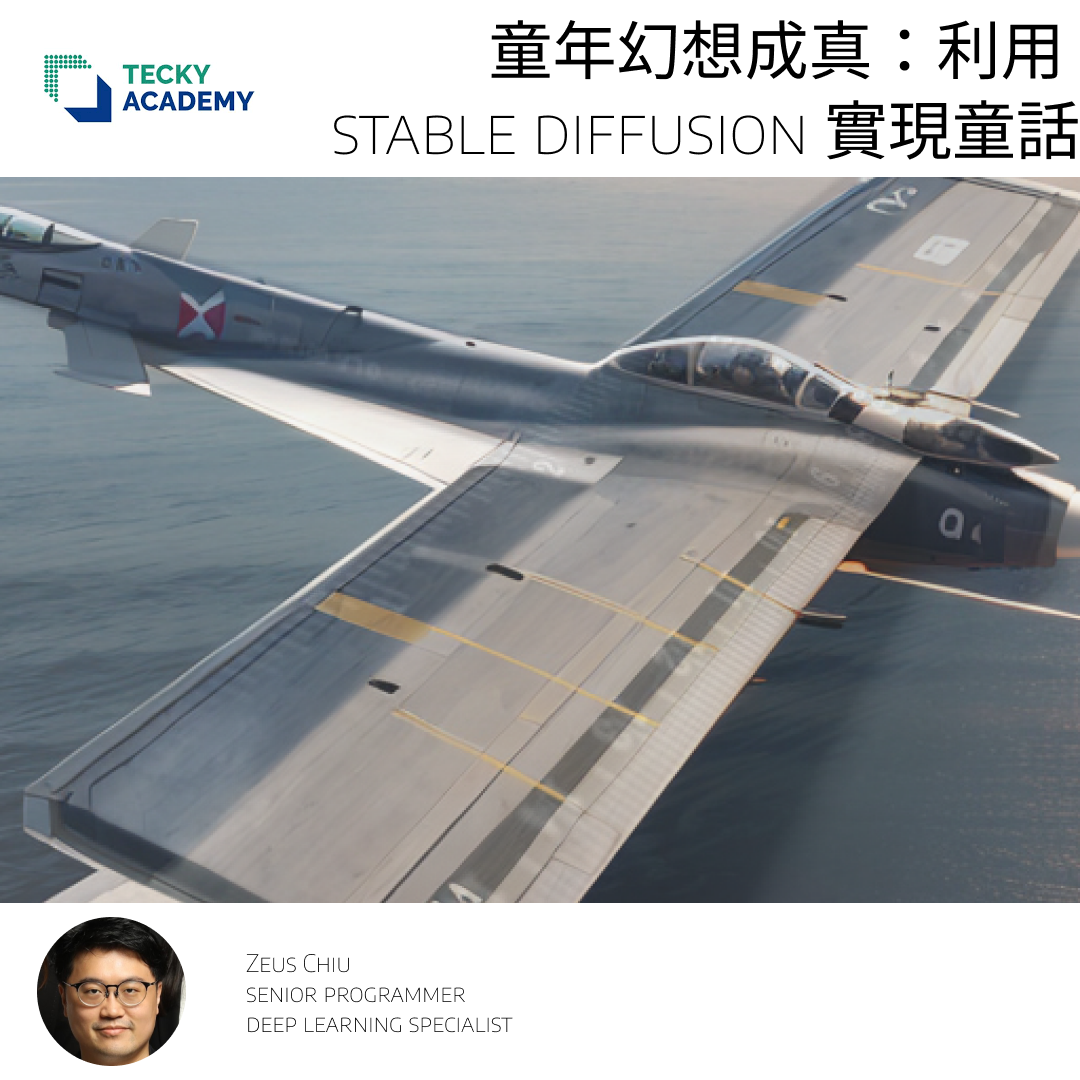
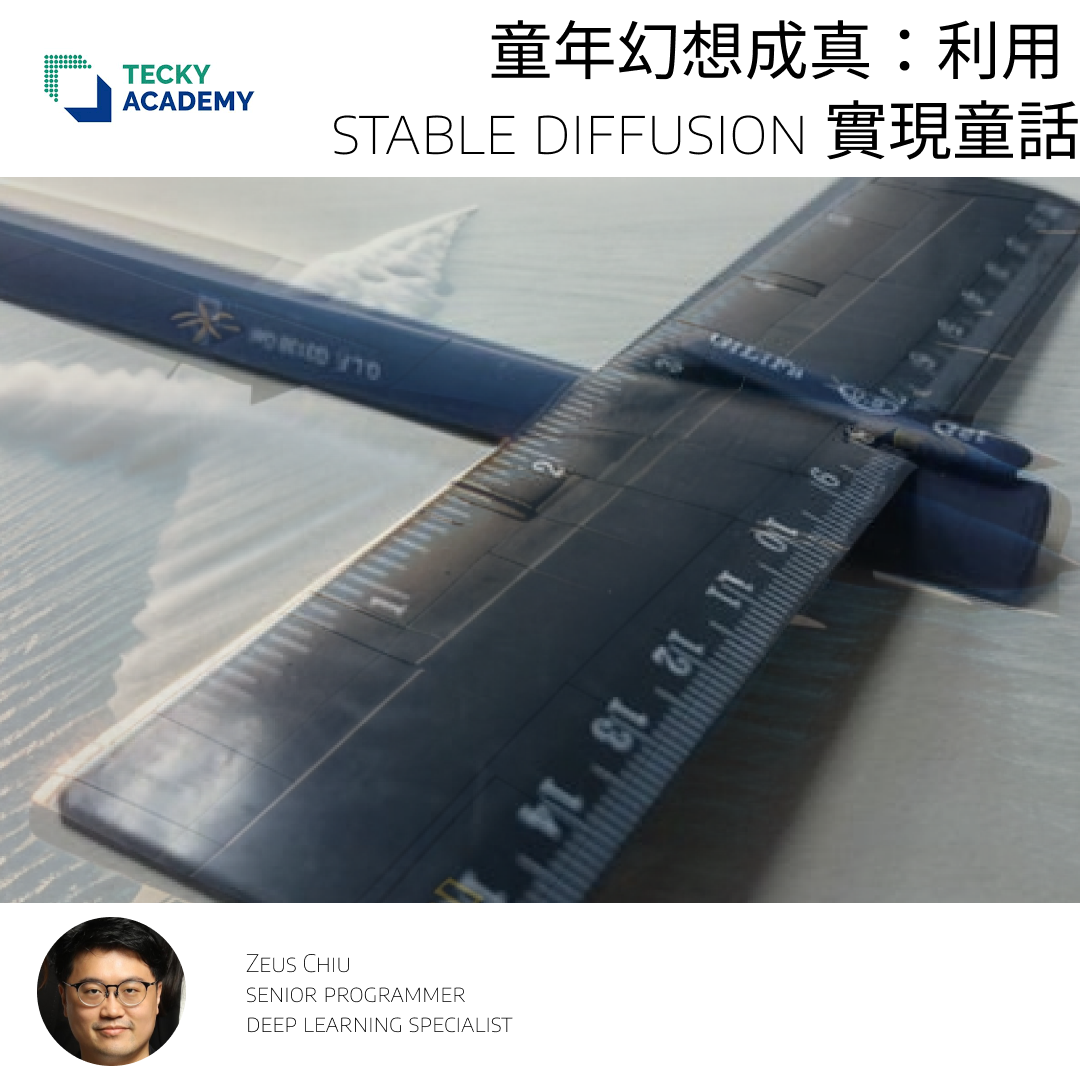
如何使用（Stable Diffusion）來創造你童年的幻想

diff --git a/blogs/如何使用（Stable Diffusion）來創造你童年的幻想.md b/blogs/如何使用（Stable Diffusion）來創造你童年的幻想.md
@@ -1,0 +1,37 @@
+
+## 呢幅圖會唔會喺你心中喚起啲回憶呢？
+![Pen and ruler aircraft](https://github.com/zeuscsc/About-Me/blob/main/blogs/assets/dbe331af600063b233d211bca6ad7a1b.jpg?raw=true)
+
+## 當你看到這支筆和尺子組成的飛機時，是否會浮現以下這張圖片在你腦海中？
+![[Pasted image 20230320172942.png]]
+
+## 今天我會向你展示如何在簡單幾個點擊中完成這個操作。
+
+在你完成 AWS 的所有設定後，當你進入自己的網站時，你應該能夠看到以下的內容：
+
+![[webui_screenshot.png]]
+
+默認情況下，當你打開 WebUI 時，它將使用 Stable Diffusion 1.5
+![[sd-v1-5-cp_screenshot.png]]
+把它改為 2.1
+![[sd-v2-1-cp_screenshot.png]]
+
+如果你對 Prompt 不是很熟悉，你可以進入 Interrogator，將圖像拖到那裡，點擊生成（generate）然後自己查看結果。
+![[interrogator_screenshot.png]]
+使用一張與你目標相似的圖像在 Interrogator 中可以幫助生成更接近你目標的圖像。
+
+修改Prompt以滿足你的需求，然後按照所示更改設置。
+![[settings_screenhort.png]]
+這是 ControlNet 的設置。
+![[controlnet_settings_screenshot.png]]
+沒有保證 Stable Diffusion V1.5 或 V2.1 哪一個會獲得更好的結果，儘管 2.1 比 1.5 更晚推出，但 1.5 的社區更大且具有更多的訓練樣本。因此，有時 V1.5 會提供更好的結果。
+
+如果你有一些特殊風格或特殊圖像想要生成，你可以在現有的網站上尋找，或者訓練自己的模型。
+
+如果你想從社群中獲取更多的模型而不是訓練自己的模型，[CivitAi](https://civitai.com/)是一個很好的網站。
+![[civitai_cars_screenshot.png]]
+但如果你找不到符合你需求的模型，或者想嘗試訓練自己的模型，你可以嘗試混合不同的模型或使用一些圖片來使用Lora進行訓練，以獲得更符合你需求的結果。
+
+這次我加入了一些來自Interrogator的Prompts，並切換到Realistic_Vision_V1.4模型，結果是：
+![[fighter_jet_demo_screenshot.png]]
+如果你想要更精確的飛行器或更類似歷史圖像，你可以尋找一些圖像並進行訓練。我可以在未來提供更多相關的訊息。
